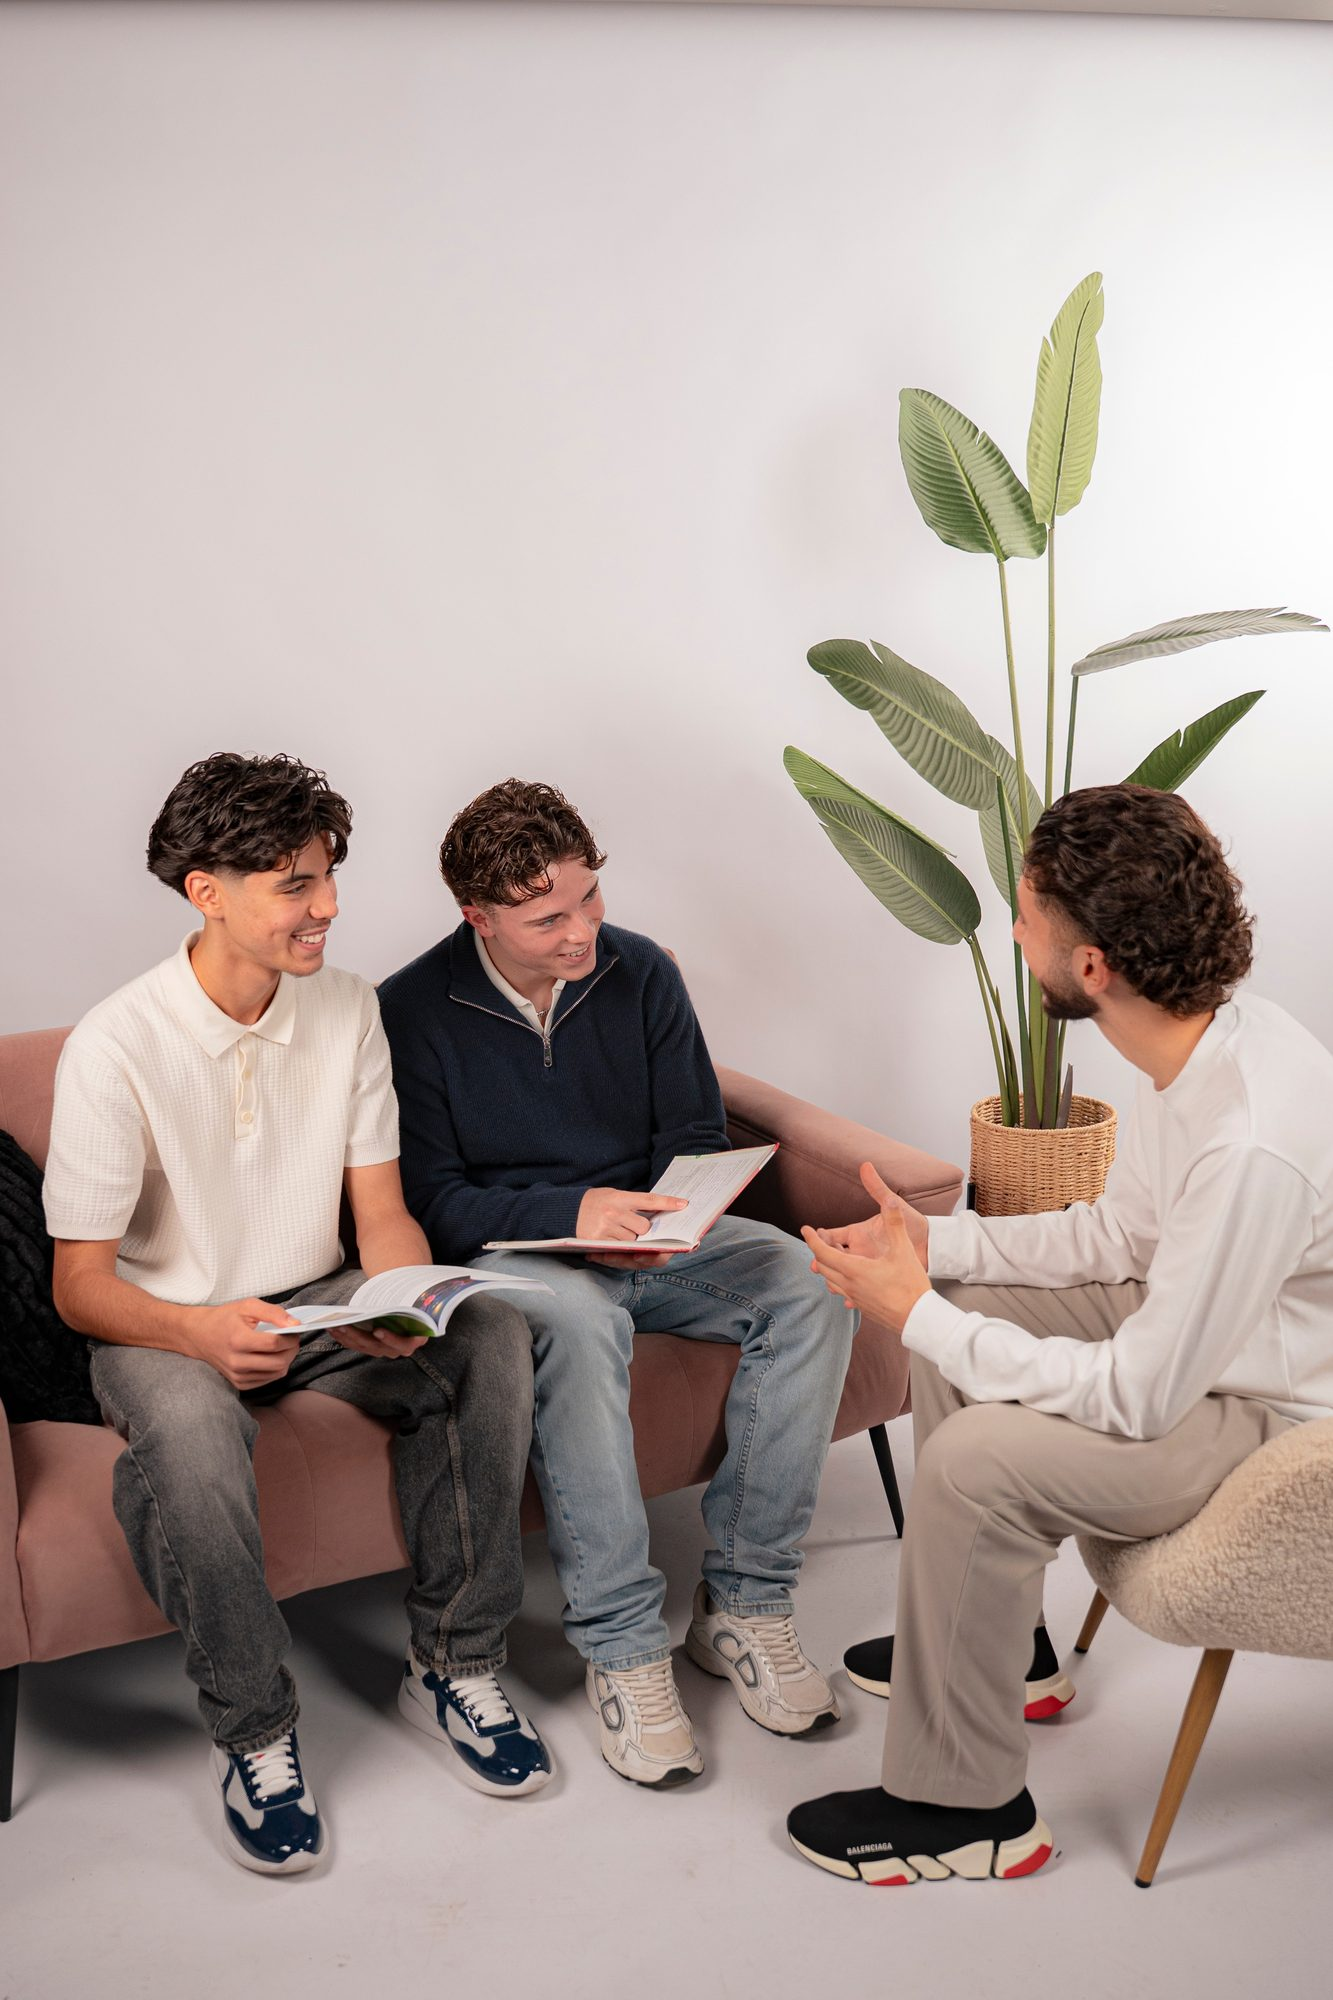
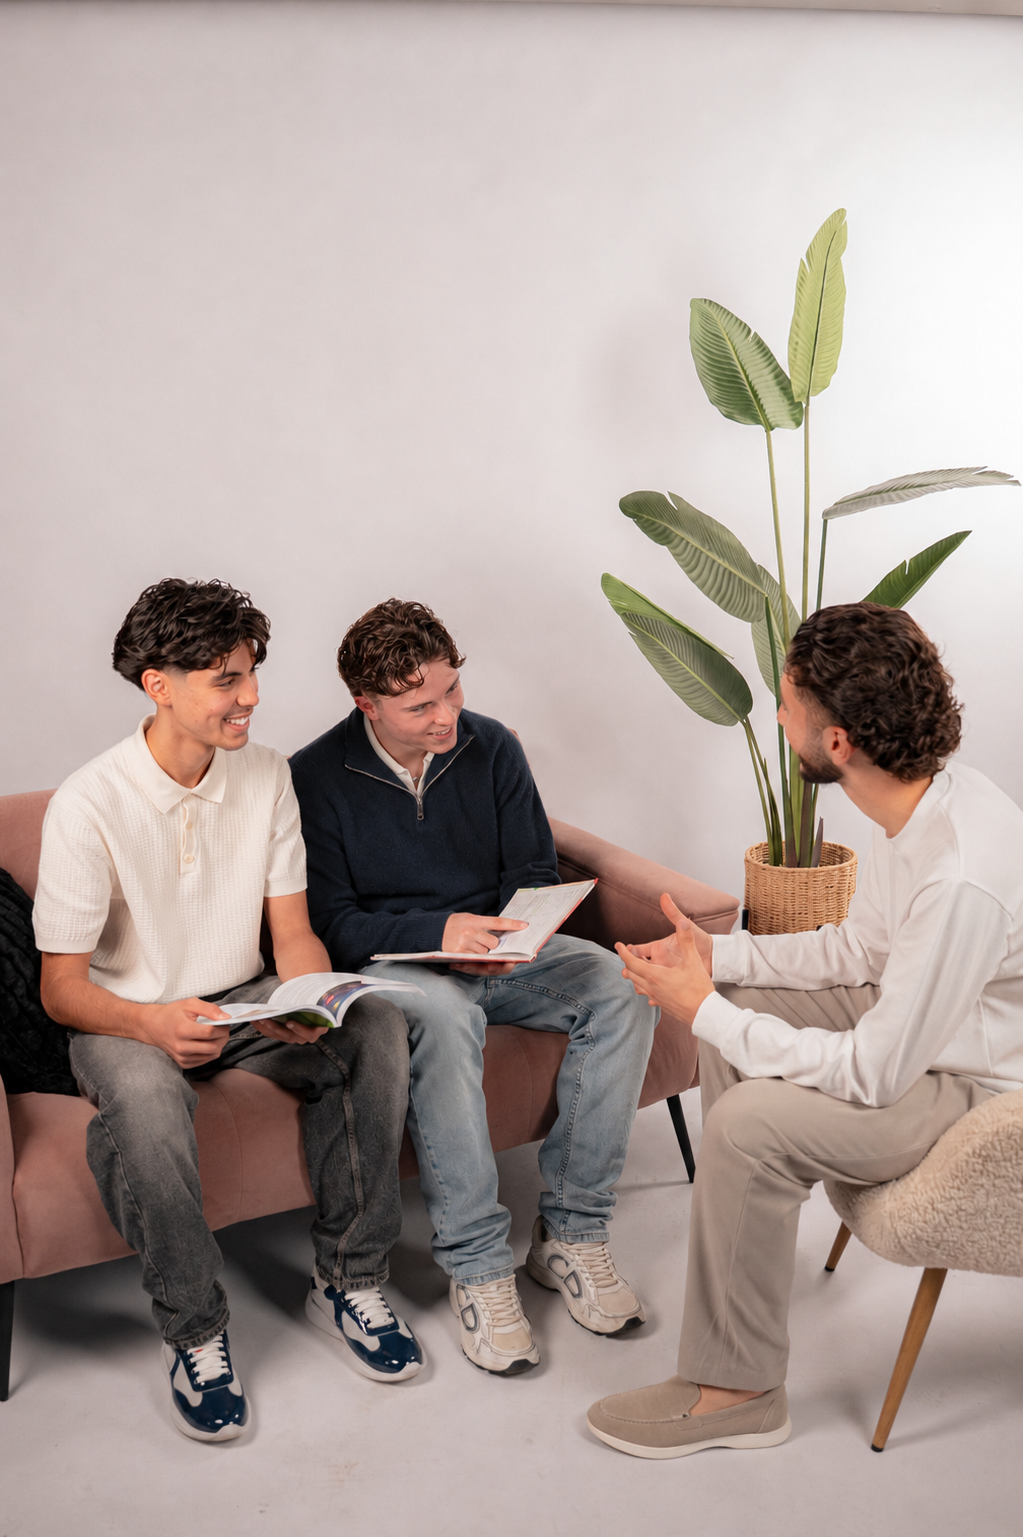
Header/hero/testimonials/contact layout tweaks
- Logo groter en los van de pill-navbar, marquee onder navbar
- Stats-balk en hero eyebrow verwijderd
- Contact-sectie: formulier en contactinfo omgewisseld
- Testimonials-sectie groene achtergrond, highlight in donkergroen
- Hero: nieuwe foto's, inset-foto naar links, crop verschoven

diff --git a/index.html b/index.html
@@ -81,12 +81,11 @@
   /* Header */
   header{position:sticky;top:0;z-index:50;transition:.3s var(--ease)}
   .nav{
-    position:relative;
     display:flex;align-items:center;justify-content:space-between;gap:20px;
     padding:14px 24px;max-width:calc(var(--maxw) + 24px);margin:0 auto;
   }
   .nav-inner{
-    display:flex;align-items:center;justify-content:space-between;gap:20px;width:100%;
+    display:flex;align-items:center;justify-content:space-between;gap:20px;flex:1;min-width:0;
     background:rgba(255,250,226,.82);backdrop-filter:blur(14px);
     border:1px solid var(--line-2);border-radius:999px;
     padding:10px 12px 10px 20px;box-shadow:var(--shadow-sm);
@@ -94,9 +93,8 @@
   .brand{display:flex;align-items:center;gap:10px;flex-shrink:0}
   .brand img{height:34px;width:auto}
   @media(min-width:1001px){
-    .brand{position:absolute;left:24px;top:-10px;z-index:60}
-    .brand img{height:60px}
-    .nav-inner{padding-left:160px}
+    .nav{padding:20px 24px}
+    .brand img{height:85px}
   }
   .nav-links{display:flex;align-items:center;gap:4px}
   .nav-links a{
@@ -164,8 +162,9 @@
   .photo svg.ph-motif{position:absolute;inset:0;width:100%;height:100%;opacity:.9}
   .photo img{width:100%;height:100%;object-fit:cover;display:block}
   .hero-main{aspect-ratio:4/5}
+  .hero-main img{object-position:center 80%}
   .hero-inset{
-    position:absolute;right:-14px;bottom:-14px;width:46%;aspect-ratio:1/1;
+    position:absolute;left:-14px;bottom:-14px;width:46%;aspect-ratio:1/1;
     border:5px solid var(--paper);box-shadow:var(--shadow-md);z-index:3;
     background:linear-gradient(145deg,#DDE9F0,#C6D8E6);
   }
@@ -176,7 +175,7 @@
   }
 
   /* Marquee */
-  .marquee{background:var(--green);color:#fff;overflow:hidden;padding:16px 0;white-space:nowrap}
+  .marquee{background:var(--green);color:#fff;overflow:hidden;padding:16px 0;white-space:nowrap;margin-top:18px}
   .marquee-track{display:inline-flex;gap:0;animation:scroll 26s linear infinite;will-change:transform}
   .marquee-track span{font-weight:700;font-size:1.02rem;padding:0 26px;display:inline-flex;align-items:center;gap:26px}
   .marquee-track span::after{content:"✦";opacity:.7;font-size:.7em}
@@ -263,7 +262,8 @@
   .tm-role{display:block;font-size:.92rem;color:var(--green-600);font-weight:600;margin-top:2px}
 
   /* Testimonials (dark) */
-  .testi{background:var(--dark);color:#fff}
+  .testi{background:var(--green);color:#fff}
+  .testi .hl{background:var(--green-600)}
   .testi h2{color:#fff}
   .rating-pill{display:inline-flex;align-items:center;gap:12px;background:var(--dark-2);border:1px solid var(--dark-line);border-radius:999px;padding:.7em 1.3em;margin-top:22px}
   .rating-pill .stars{font-size:1rem}
@@ -437,10 +437,10 @@
 <!-- ============ HEADER ============ -->
 <header>
   <div class="nav">
+    <a href="#top" class="brand" aria-label="De Leer Vrienden home">
+      <img src="images/logo-transparant.png" alt="De Leer Vrienden" width="70" height="34" decoding="async">
+    </a>
     <div class="nav-inner">
-      <a href="#top" class="brand" aria-label="De Leer Vrienden home">
-        <img src="images/logo-transparant.png" alt="De Leer Vrienden" width="70" height="34" decoding="async">
-      </a>
       <nav class="nav-links" aria-label="Hoofdmenu">
         <a href="#ervaringen">Ervaringen</a>
         <a href="#diensten">Diensten</a>
@@ -498,25 +498,15 @@
     </div>
     <div class="hero-visual reveal">
       <div class="photo hero-main">
-        <img src="images/KLANTEN_2.jpg" alt="Twee leerlingen bestuderen samen aantekeningen op de bank, met een laptop en telefoon" width="960" height="1200" loading="eager" decoding="async">
+        <img src="images/AMIN_X_KLANTEN_2.jpg" alt="Twee leerlingen bestuderen samen aantekeningen op de bank, met een laptop en telefoon" width="960" height="1200" loading="eager" decoding="async">
       </div>
       <div class="photo hero-inset">
-        <img src="images/_STI8936.jpg" alt="Close-up van twee leerlingen die samen iets opzoeken in de atlas" width="600" height="600" loading="lazy" decoding="async">
+        <img src="images/AEST.jpg" alt="Close-up van twee leerlingen die samen iets opzoeken in de atlas" width="600" height="600" loading="lazy" decoding="async">
       </div>
     </div>
   </div>
 </section>
 
-<!-- ============ STATS ============ -->
-<section class="stats pad-sm">
-  <div class="wrap">
-    <div class="stats-grid reveal">
-      <div class="stat"><b>9,4</b><span>gemiddelde waardering van ouders</span></div>
-      <div class="stat"><b>1-op-1</b><span>altijd persoonlijke aandacht</span></div>
-      <div class="stat"><b>PO &amp; VO</b><span>basis- én voortgezet onderwijs</span></div>
-    </div>
-  </div>
-</section>
 
 <!-- ============ BOOKING / FORM ============ -->
 <section class="pad wrap" id="proefles">
@@ -801,24 +791,6 @@
       <h2>Neem <span class="hl">contact</span> met ons op.</h2>
     </div>
 
-    <div class="contact-band reveal">
-      <div class="contact-info">
-        <h3>Nog een vraag?</h3>
-        <p>We helpen u graag persoonlijk verder. Bel of mail ons gerust, we denken met u mee.</p>
-        <a href="#proefles" class="btn btn-primary" style="margin-top:20px">Plan een gratis proefles <span class="arw">→</span></a>
-      </div>
-      <div class="contact-methods">
-        <a href="tel:0684513803" class="cm">
-          <span class="cm-ico"><svg viewBox="0 0 24 24" fill="none" stroke="currentColor" stroke-width="2" stroke-linecap="round" stroke-linejoin="round"><path d="M22 16.92v3a2 2 0 0 1-2.18 2 19.79 19.79 0 0 1-8.63-3.07 19.5 19.5 0 0 1-6-6 19.79 19.79 0 0 1-3.07-8.67A2 2 0 0 1 4.11 2h3a2 2 0 0 1 2 1.72c.13.96.36 1.9.7 2.81a2 2 0 0 1-.45 2.11L8.09 9.91a16 16 0 0 0 6 6l1.27-1.27a2 2 0 0 1 2.11-.45c.9.34 1.85.57 2.81.7A2 2 0 0 1 22 16.92z"/></svg></span>
-          <div><small>Telefoon · ma–vr 9–17u</small><b>06 8451 3803</b></div>
-        </a>
-        <a href="mailto:info@deleervrienden.nl" class="cm">
-          <span class="cm-ico"><svg viewBox="0 0 24 24" fill="none" stroke="currentColor" stroke-width="2" stroke-linecap="round" stroke-linejoin="round"><rect x="2" y="4" width="20" height="16" rx="2"/><path d="m22 7-10 6L2 7"/></svg></span>
-          <div><small>E-mail · reactie binnen 1 werkdag</small><b>info@deleervrienden.nl</b></div>
-        </a>
-      </div>
-    </div>
-
     <div class="form-card reveal" style="max-width:820px;margin:0 auto">
       <h3>Stuur ons een bericht</h3>
       <p class="hint">Vul het formulier in, we reageren binnen één werkdag.</p>
@@ -840,6 +812,24 @@
         <button class="btn btn-primary" style="flex:1" id="contactSubmitBtn">Bericht versturen <span class="arw">→</span></button>
       </div>
       <p class="disclaimer" id="contactStatus" style="display:none"></p>
+    </div>
+
+    <div class="contact-band reveal">
+      <div class="contact-info">
+        <h3>Nog een vraag?</h3>
+        <p>We helpen u graag persoonlijk verder. Bel of mail ons gerust, we denken met u mee.</p>
+        <a href="#proefles" class="btn btn-primary" style="margin-top:20px">Plan een gratis proefles <span class="arw">→</span></a>
+      </div>
+      <div class="contact-methods">
+        <a href="tel:0684513803" class="cm">
+          <span class="cm-ico"><svg viewBox="0 0 24 24" fill="none" stroke="currentColor" stroke-width="2" stroke-linecap="round" stroke-linejoin="round"><path d="M22 16.92v3a2 2 0 0 1-2.18 2 19.79 19.79 0 0 1-8.63-3.07 19.5 19.5 0 0 1-6-6 19.79 19.79 0 0 1-3.07-8.67A2 2 0 0 1 4.11 2h3a2 2 0 0 1 2 1.72c.13.96.36 1.9.7 2.81a2 2 0 0 1-.45 2.11L8.09 9.91a16 16 0 0 0 6 6l1.27-1.27a2 2 0 0 1 2.11-.45c.9.34 1.85.57 2.81.7A2 2 0 0 1 22 16.92z"/></svg></span>
+          <div><small>Telefoon · ma–vr 9–17u</small><b>06 8451 3803</b></div>
+        </a>
+        <a href="mailto:info@deleervrienden.nl" class="cm">
+          <span class="cm-ico"><svg viewBox="0 0 24 24" fill="none" stroke="currentColor" stroke-width="2" stroke-linecap="round" stroke-linejoin="round"><rect x="2" y="4" width="20" height="16" rx="2"/><path d="m22 7-10 6L2 7"/></svg></span>
+          <div><small>E-mail · reactie binnen 1 werkdag</small><b>info@deleervrienden.nl</b></div>
+        </a>
+      </div>
     </div>
   </div>
 </section>
